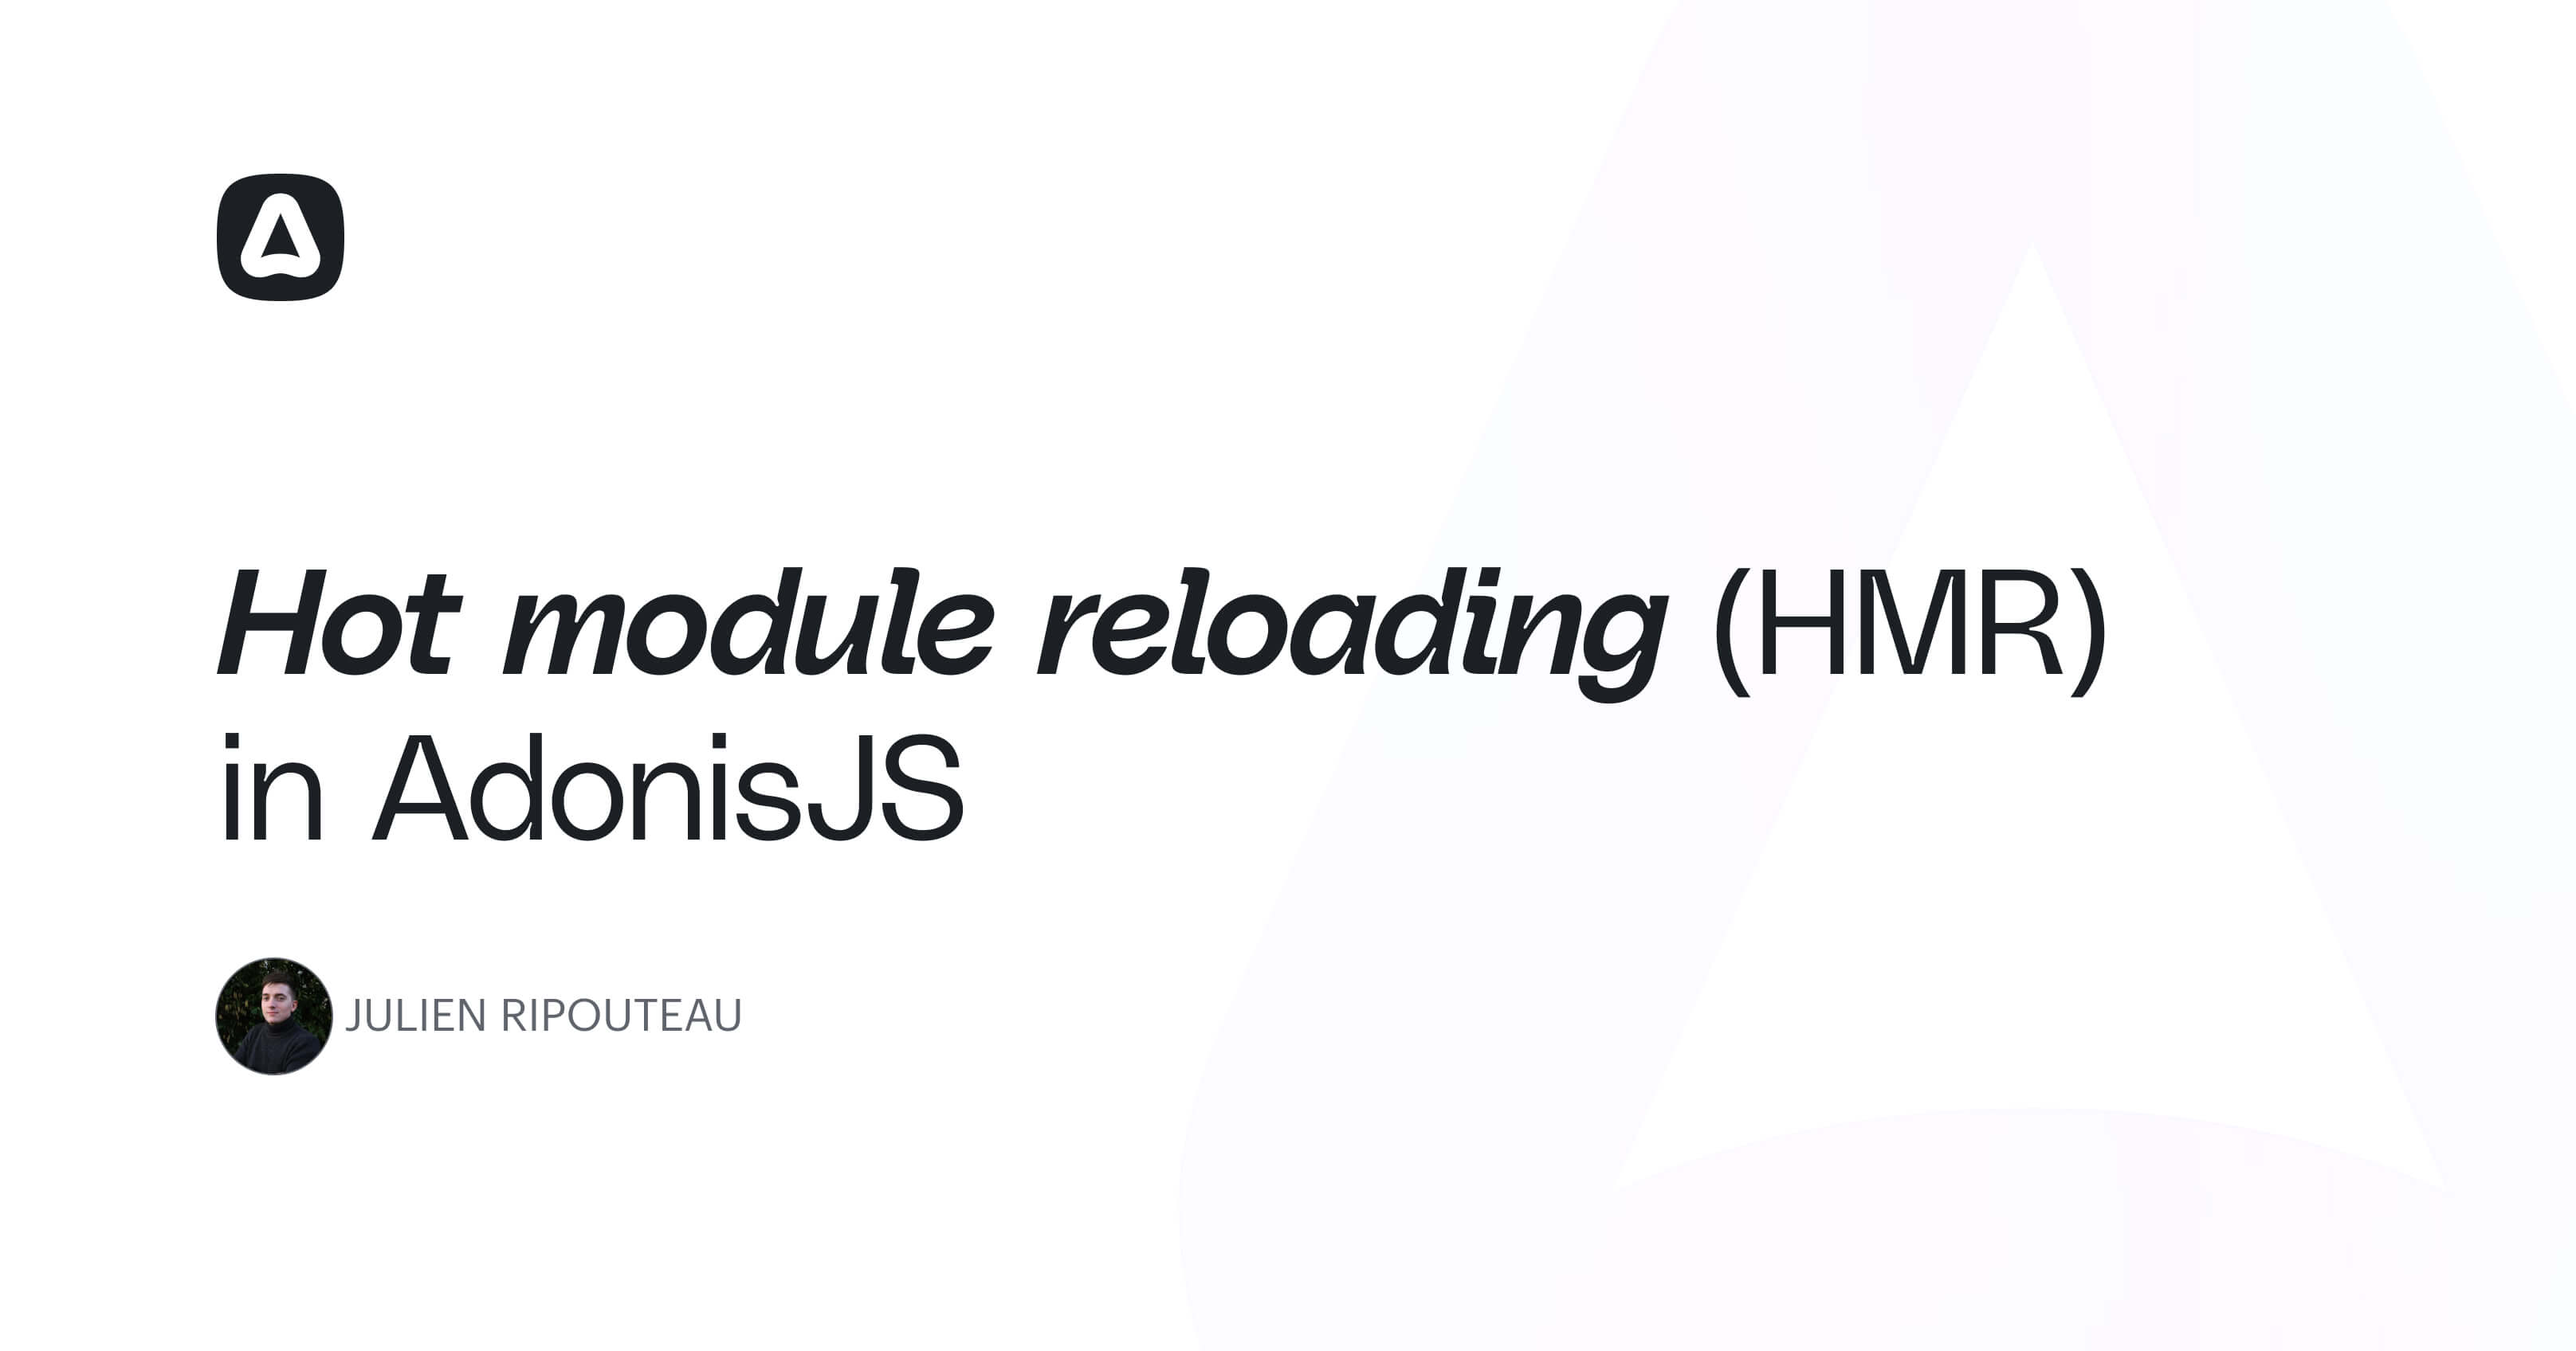
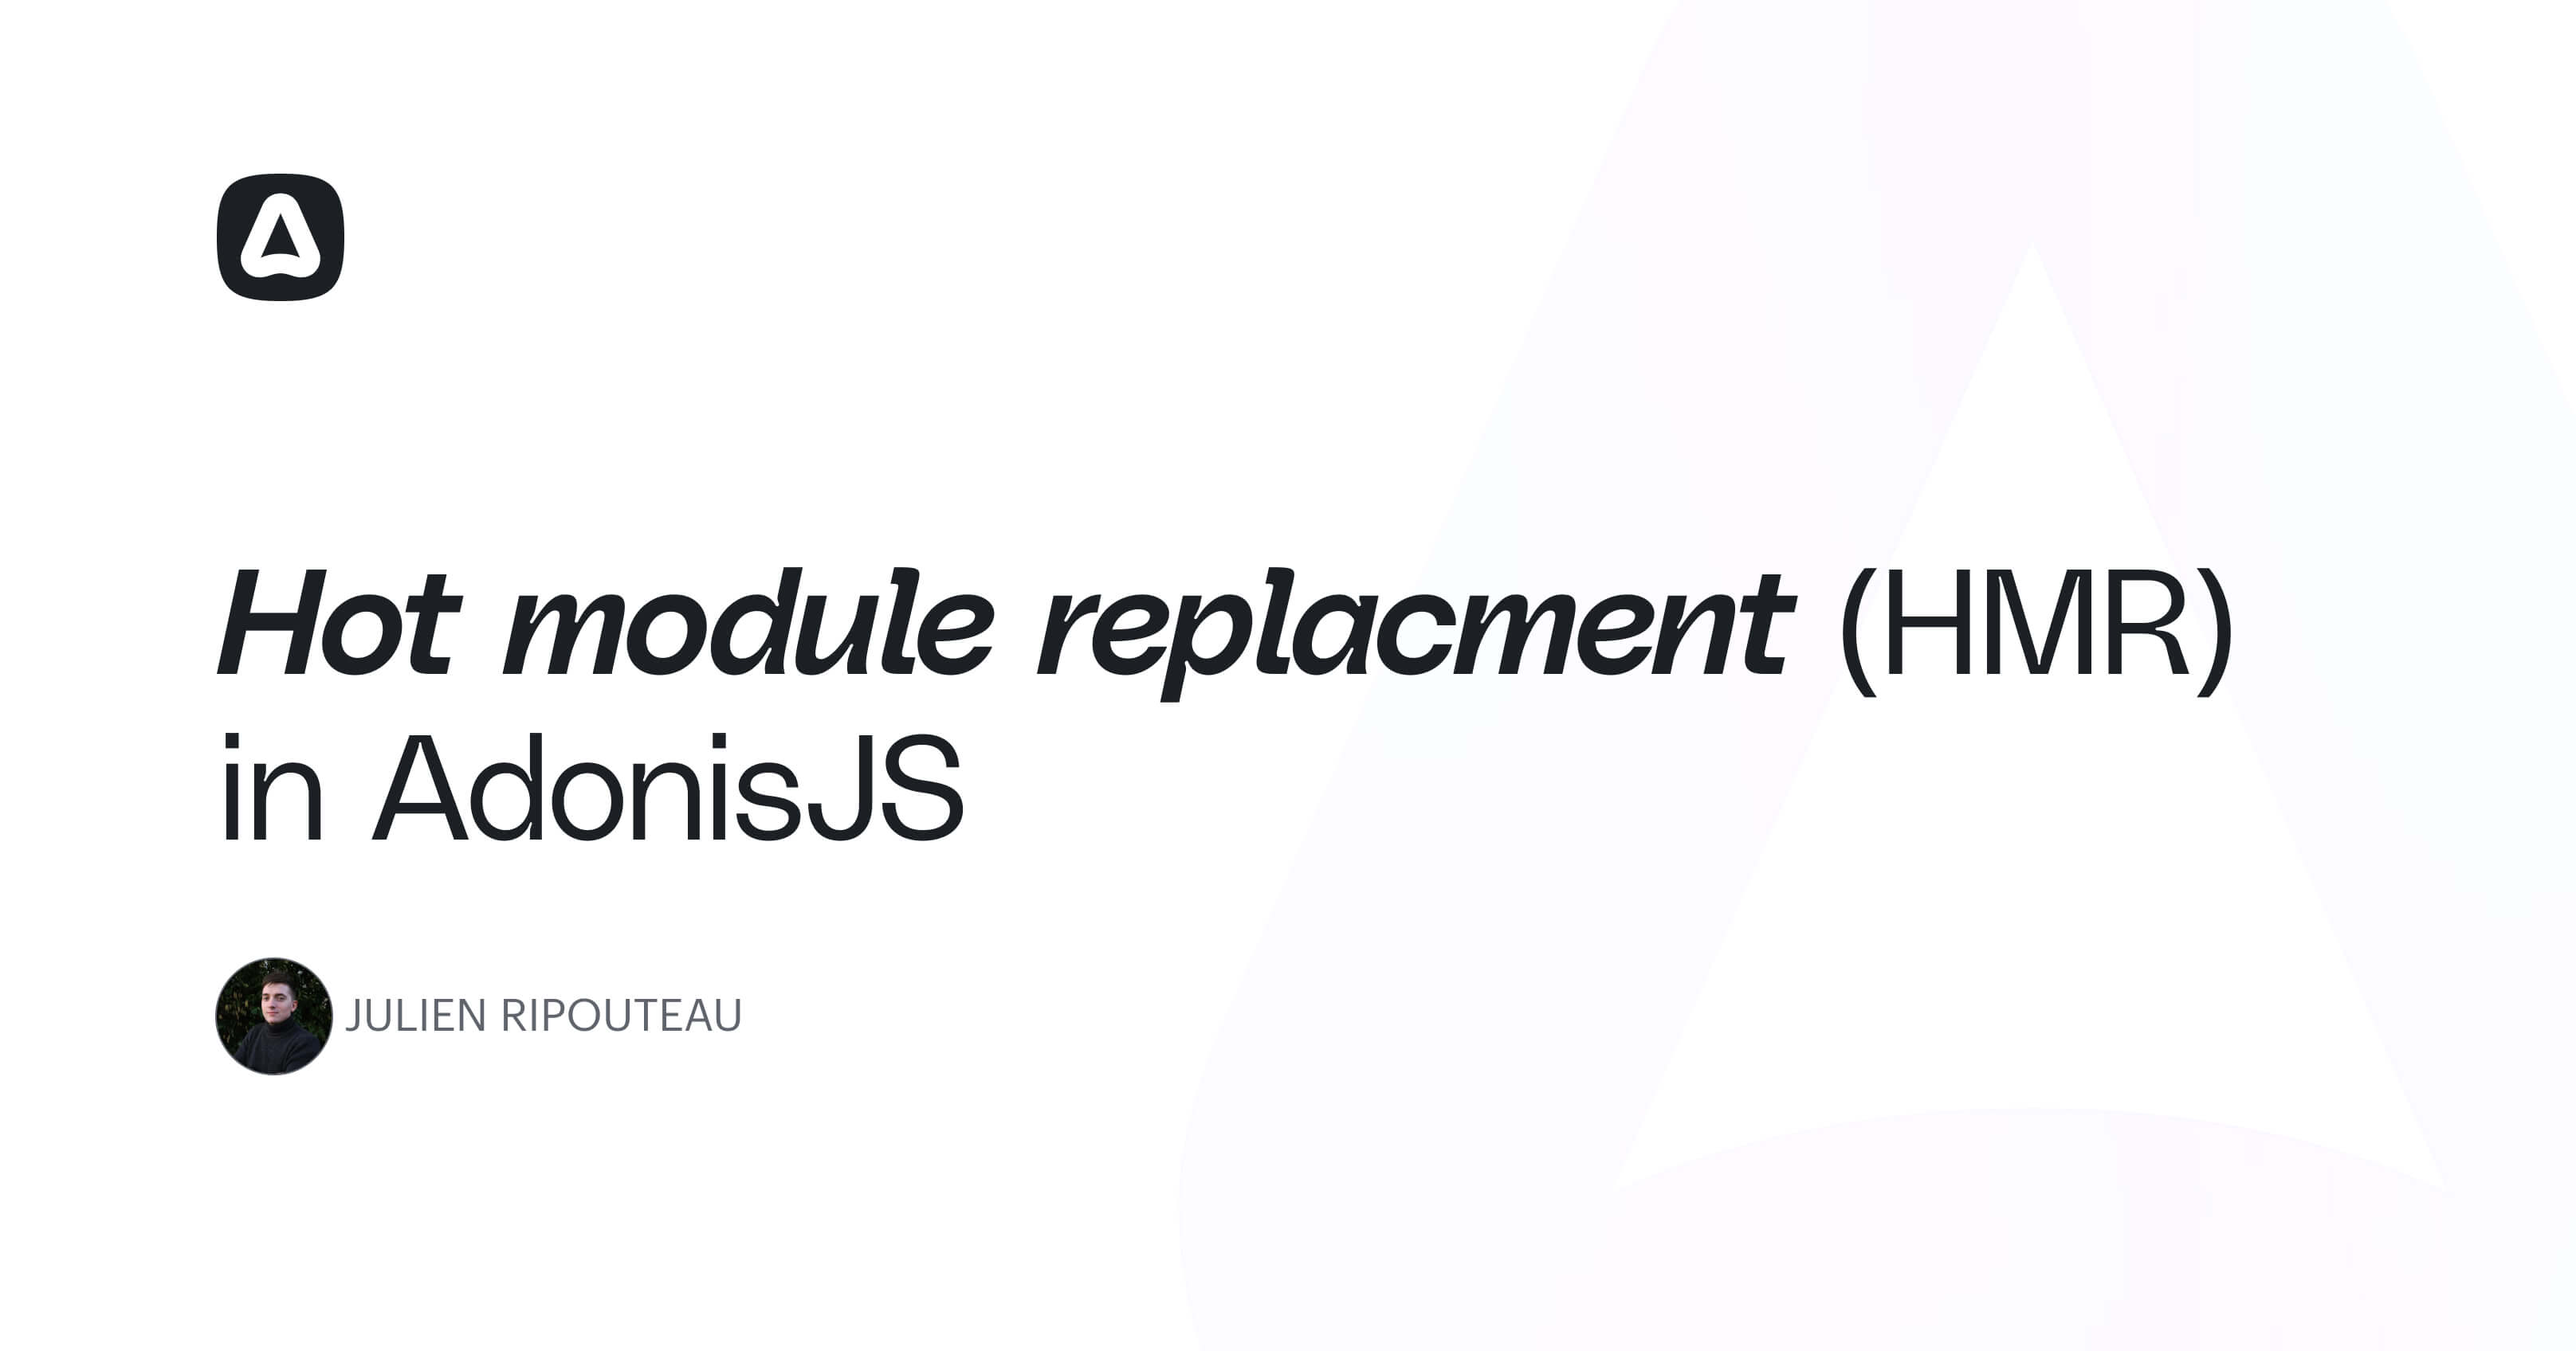
refactor: update title and og image

Changed region(s): [[0.4375, 0.4062, 0.875, 0.5312]]

diff --git a/content/blog_posts/articles/hmr-in-adonisjs.md b/content/blog_posts/articles/hmr-in-adonisjs.md
@@ -1,5 +1,5 @@
 ---
-summary: Announcing hot module reloading (HMR) in AdonisJS. HMR will lead to a faster feedback loop between changing the code and verifying the results.
+summary: Announcing hot module replacement (HMR) in AdonisJS. HMR will lead to a faster feedback loop between changing the code and verifying the results.
 ---
 
 We're thrilled to announce that **HMR is now available in AdonisJS**! Before anything, let me quickly explain what this enables. 
